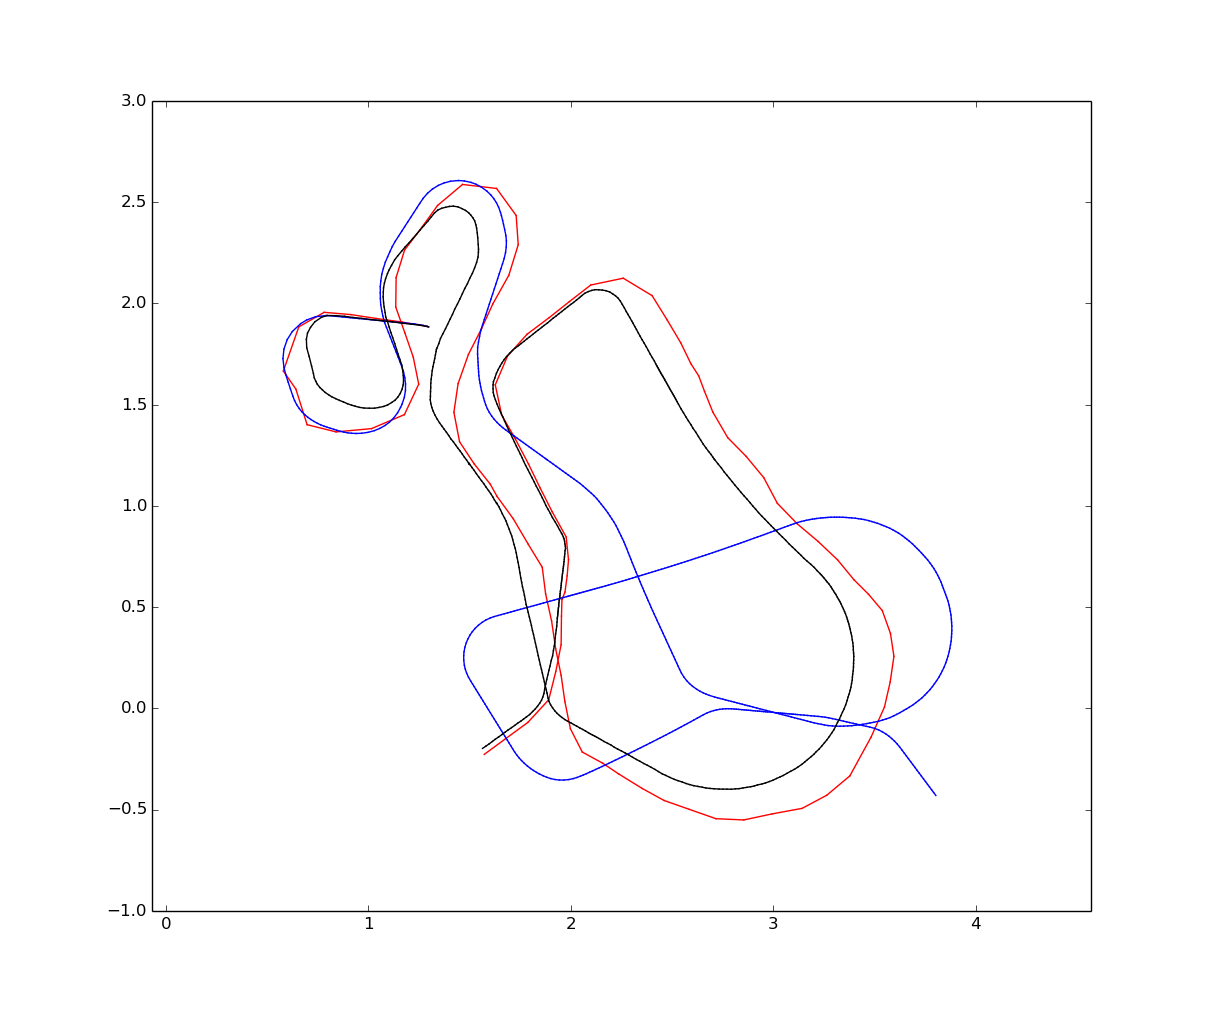
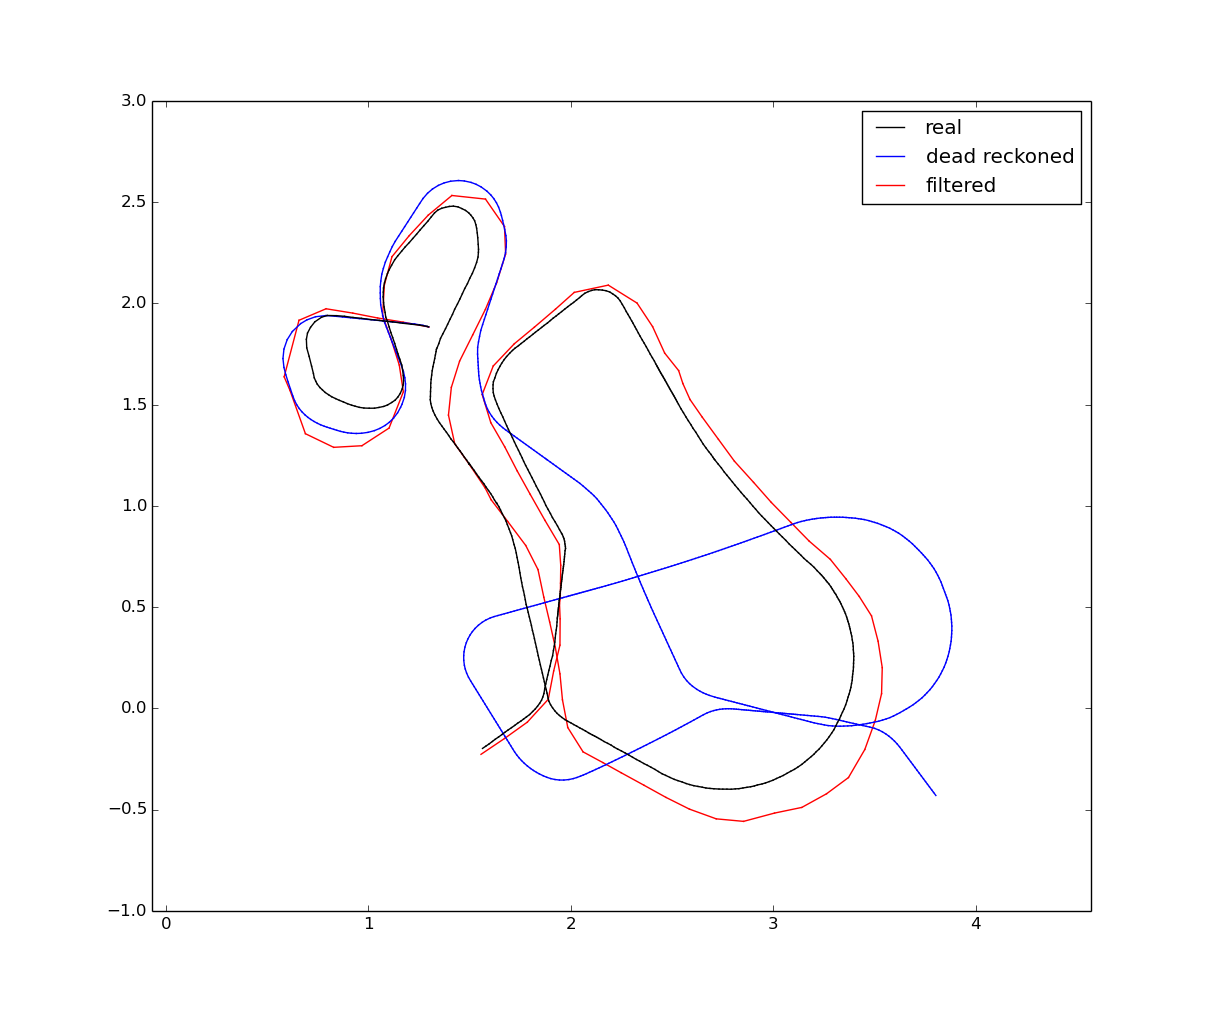
added to README and updated example photos with legend

diff --git a/hw0/run.py b/hw0/run.py
@@ -25,9 +25,9 @@ DS0_END = 1248298943.405
 DS1_END = 1288973229.039
 
 TIME_STEP = 0.1
-MAX_RUNTIME = 200
+MAX_RUNTIME = 500
 
-NUM_PARTICLES = 80
+NUM_PARTICLES = 100
 
 if __name__ == "__main__":
 
@@ -159,11 +159,18 @@ if __name__ == "__main__":
     data.draw_path(ax, path_dead_reckoned, color='b')
     data.draw_path(ax, gt)
 
+
+    
     timer1 = time.time()
     
     print "Program runtime = {}".format(timer1 - timer0)
 
     print "Plotting ..."
+    ax.legend(['real', 'dead reckoned', 'filtered'])
+    ax.get_legend().legendHandles[0].set_color('k')
+    ax.get_legend().legendHandles[1].set_color('b')
+    ax.get_legend().legendHandles[2].set_color('r')
+    
     plt.axis('equal')
     plt.plot()
     # plt.savefig('fig_b1.jpg')

diff --git a/README.md b/README.md
@@ -2,7 +2,7 @@
 
 Coursework from an audited class at Northwestern.
 
-## hw0 - Filtering Algorithms
+## hw0 - Filtering Algorithms (Particle Filter)
 
 This homework used data from the Autonomous Space Robotics Lab at the University of Toronto which can be seen here: [http://asrl.utias.utoronto.ca/datasets/mrclam/index.html](http://asrl.utias.utoronto.ca/datasets/mrclam/index.html).
 
@@ -10,6 +10,7 @@ This homework used data from the Autonomous Space Robotics Lab at the University
 	
 where dataset = 0 or 1 
 
-### Some examples:
+### Examples:
 
 ![Broken Link Image](hw0/ds0_200.png)
+![Broken Link Image](hw0/ds1_500.png)
